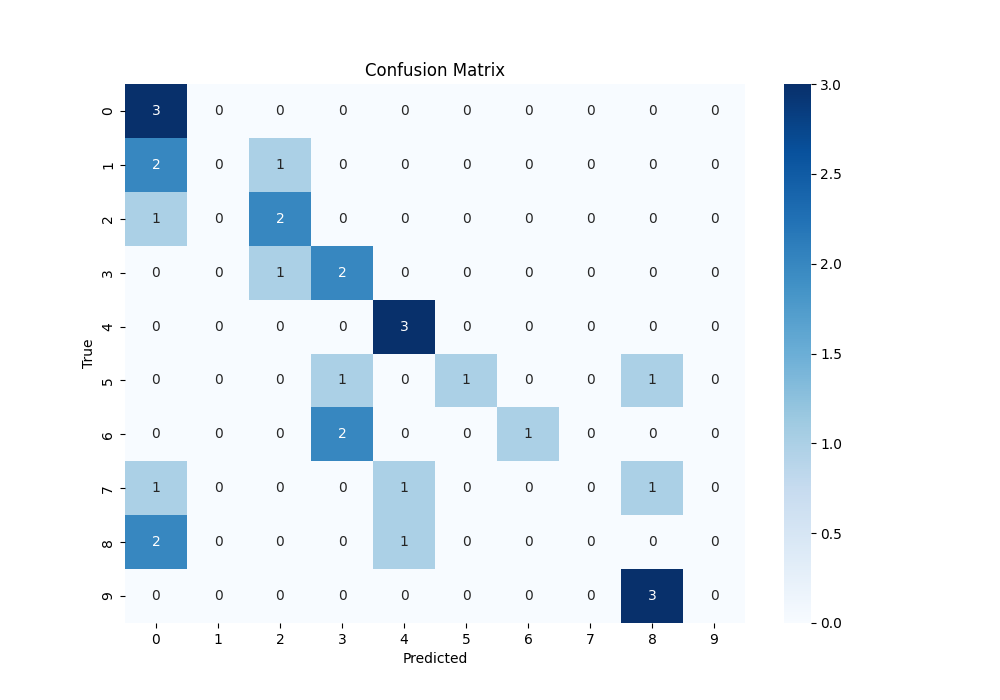
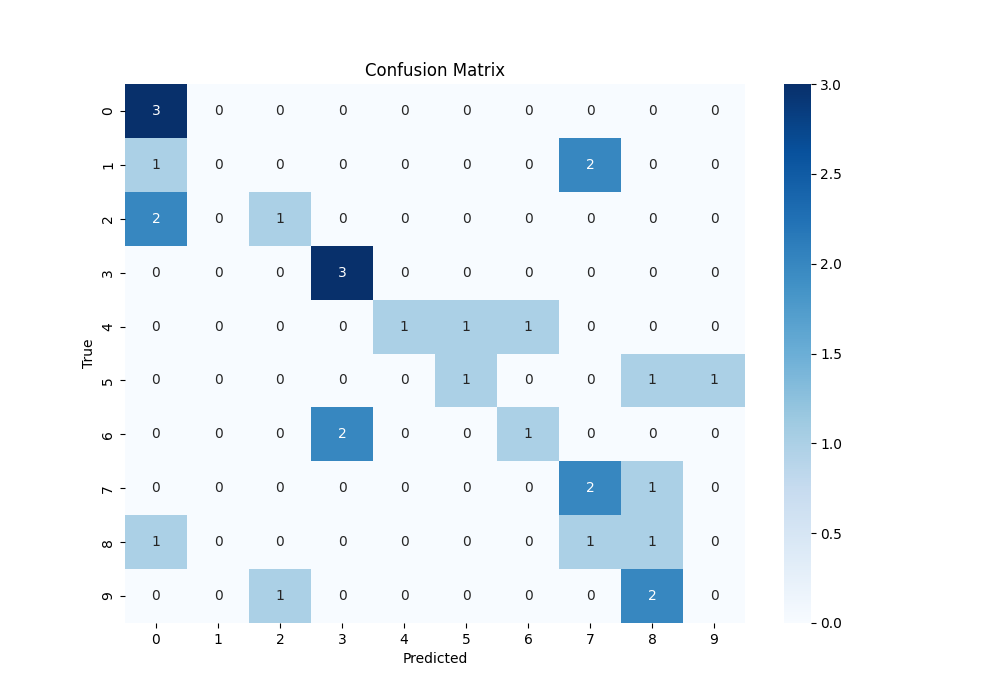
model acc 43

diff --git a/Sem4/AI/exc1/train.py b/Sem4/AI/exc1/train.py
@@ -11,7 +11,7 @@ from sklearn.metrics import confusion_matrix, classification_report
 x_train = x_train / 255.0
 x_test = x_test / 255.0
 
-# reshape
+# reshape (60000, 784) -> (60000, 28, 28, 1)
 x_train = x_train.reshape(-1, 28, 28, 1)
 x_test = x_test.reshape(-1, 28, 28, 1)
 
@@ -24,20 +24,22 @@ model = tf.keras.models.Sequential([
     # downsamples the image
     tf.keras.layers.MaxPooling2D((2, 2)),
     
+    # relu - rectified linear unit
+    # zero negative values, shut down neuron, help with vanishing gradient
     tf.keras.layers.Conv2D(64, (3, 3), activation='relu'),
-    tf.keras.layers.MaxPooling2D((2, 2)),
+    # tf.keras.layers.MaxPooling2D((2, 2)),
 
     # flattens image to 1D array
     tf.keras.layers.Flatten(),
 
     # final interpretation layer
-    # tf.keras.layers.Dense(128, activation='relu'),
+    tf.keras.layers.Dense(128, activation='relu'),
     tf.keras.layers.Dense(10, activation='softmax')
 ])
 
 # compilation and training
 model.compile(optimizer='adam', loss='sparse_categorical_crossentropy', metrics=['accuracy'])
-model.fit(x_train, y_train, epochs=6, validation_data=(x_test, y_test))
+model.fit(x_train, y_train, epochs=10, validation_data=(x_test, y_test))
 model.save("neural_model.keras")
 
 # evaluation
